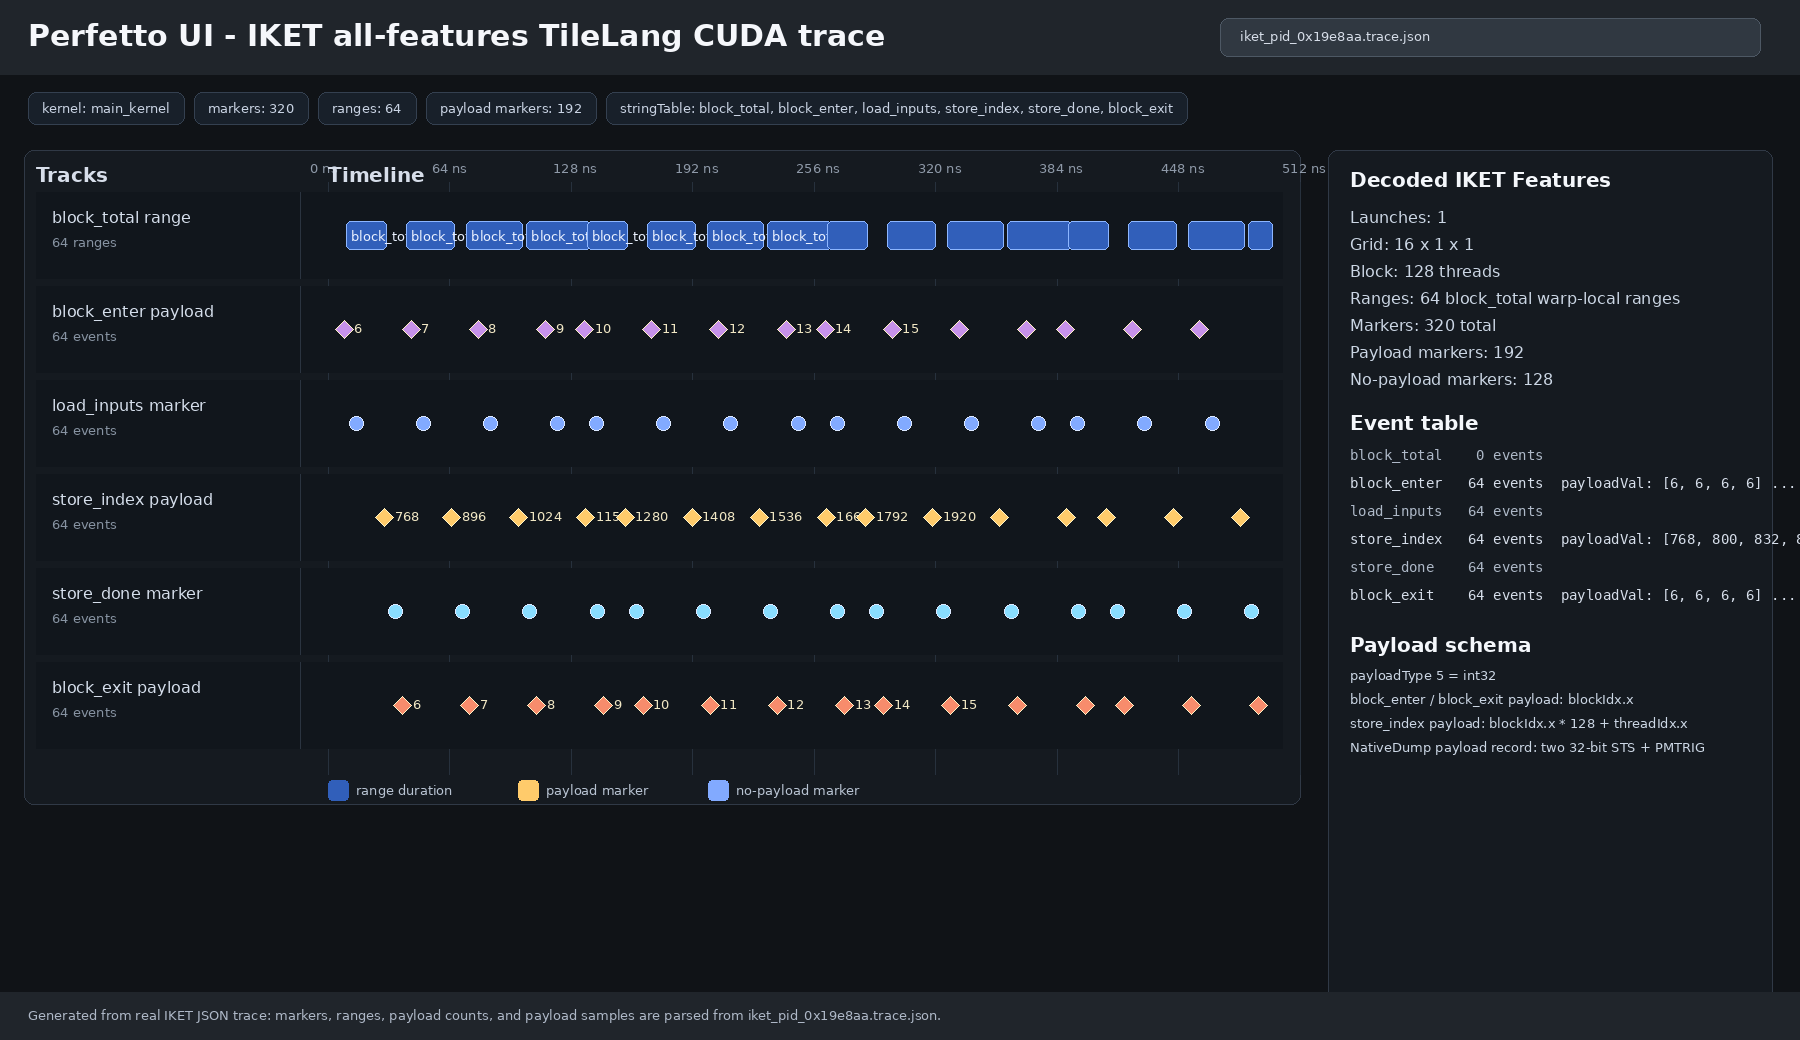
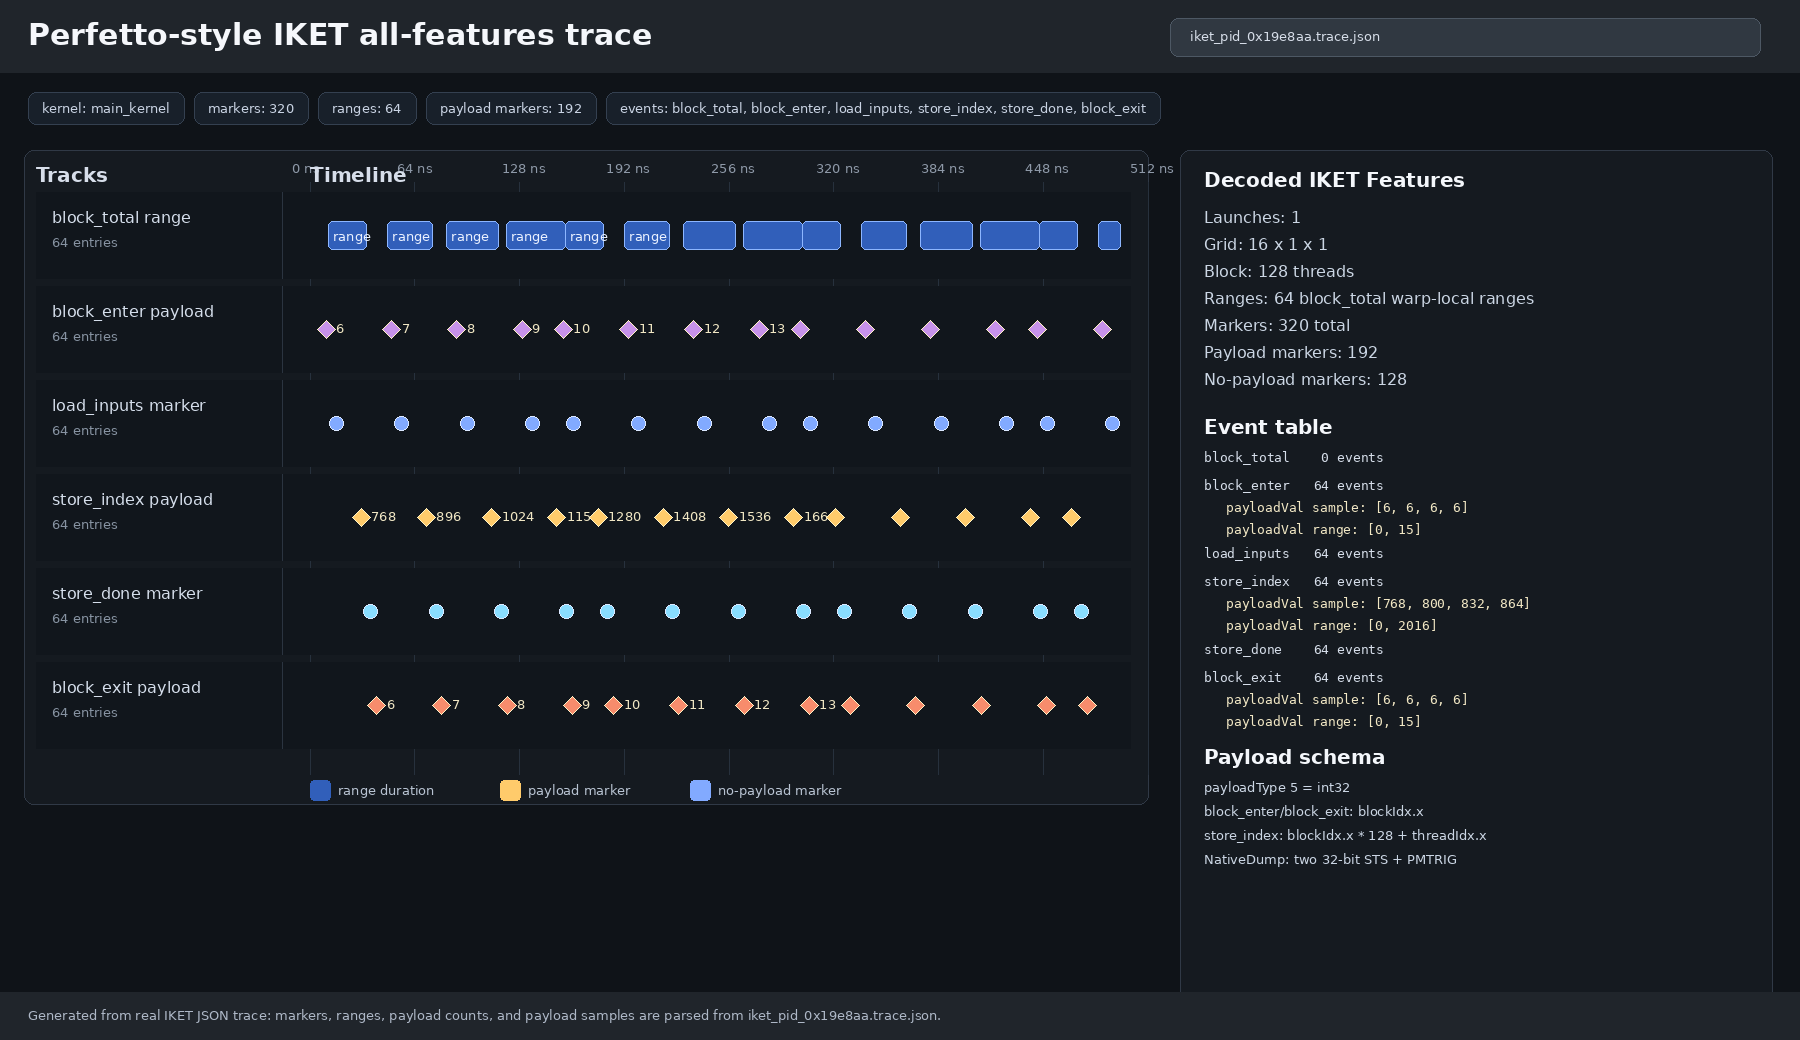
Keep IKET APIs under namespace

diff --git a/tilelang/language/iket.py b/tilelang/language/iket.py
@@ -331,20 +331,6 @@ def session(
     )
 
 
-# Backward-compatible flat names for existing experiments.
-iket_enable = enable
-iket_disable = disable
-iket_set_output_dir = set_output_dir
-iket_enable_runtime_payloads = enable_runtime_payloads
-iket_disable_runtime_payloads = disable_runtime_payloads
-iket_reset = reset
-iket_mark = mark
-iket_range_push = range_push
-iket_range_pop = range_pop
-iket_range_start = range_start
-iket_range_end = range_end
-
-
 def _payload_spec(value: Any) -> PayloadSpec | None:
     if value is None:
         return None

diff --git a/tilelang/language/__init__.py b/tilelang/language/__init__.py
@@ -162,19 +162,6 @@ from .pdl import (
 )
 
 from . import iket as iket  # noqa: F401
-from .iket import (  # noqa: F401
-    iket_disable,
-    iket_enable,
-    iket_enable_runtime_payloads,
-    iket_disable_runtime_payloads,
-    iket_set_output_dir,
-    iket_reset,
-    iket_mark,
-    iket_range_push,
-    iket_range_pop,
-    iket_range_start,
-    iket_range_end,
-)
 
 from .cluster import (
     cluster_arrive_relaxed,  # noqa: F401

diff --git a/examples/iket/README.md b/examples/iket/README.md
@@ -205,7 +205,13 @@ all-features example. It presents the Perfetto-style timeline view with the rang
 lane, instant marker lanes, runtime payload markers, event counts, and payload
 schema from the same kernel launch.
 
-![IKET Perfetto all-features trace](assets/iket_perfetto_all_features.png)
+<p align="center">
+  <img
+    src="./assets/iket_perfetto_all_features.png"
+    alt="IKET Perfetto all-features trace"
+    width="100%"
+  />
+</p>
 
 ## Inspecting Payloads Programmatically
 